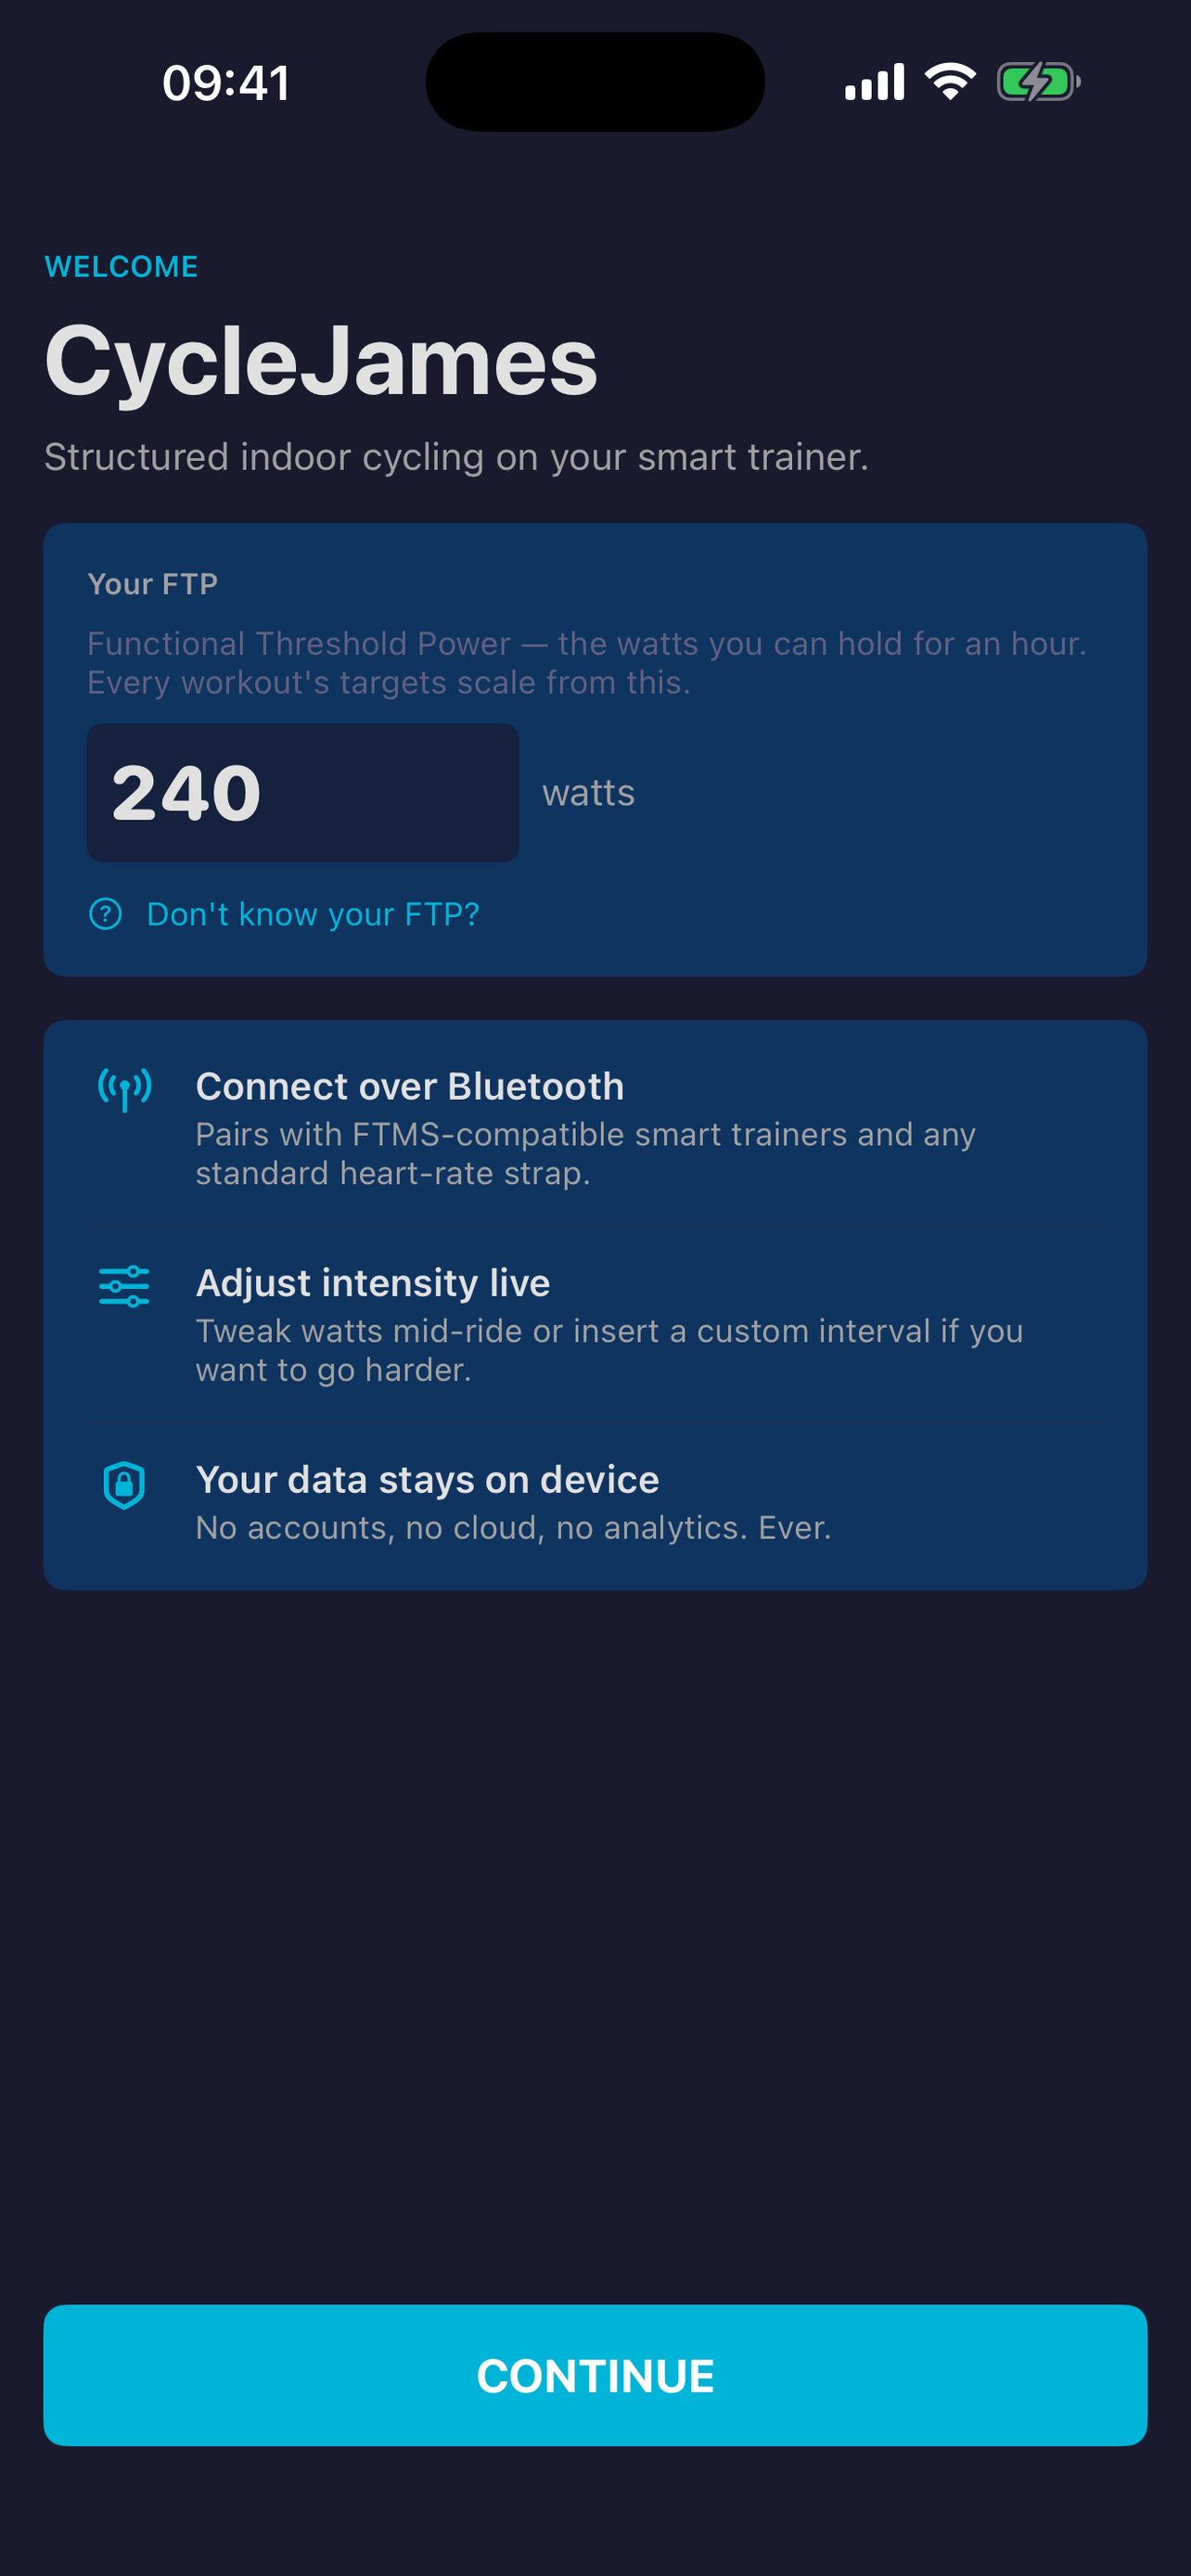
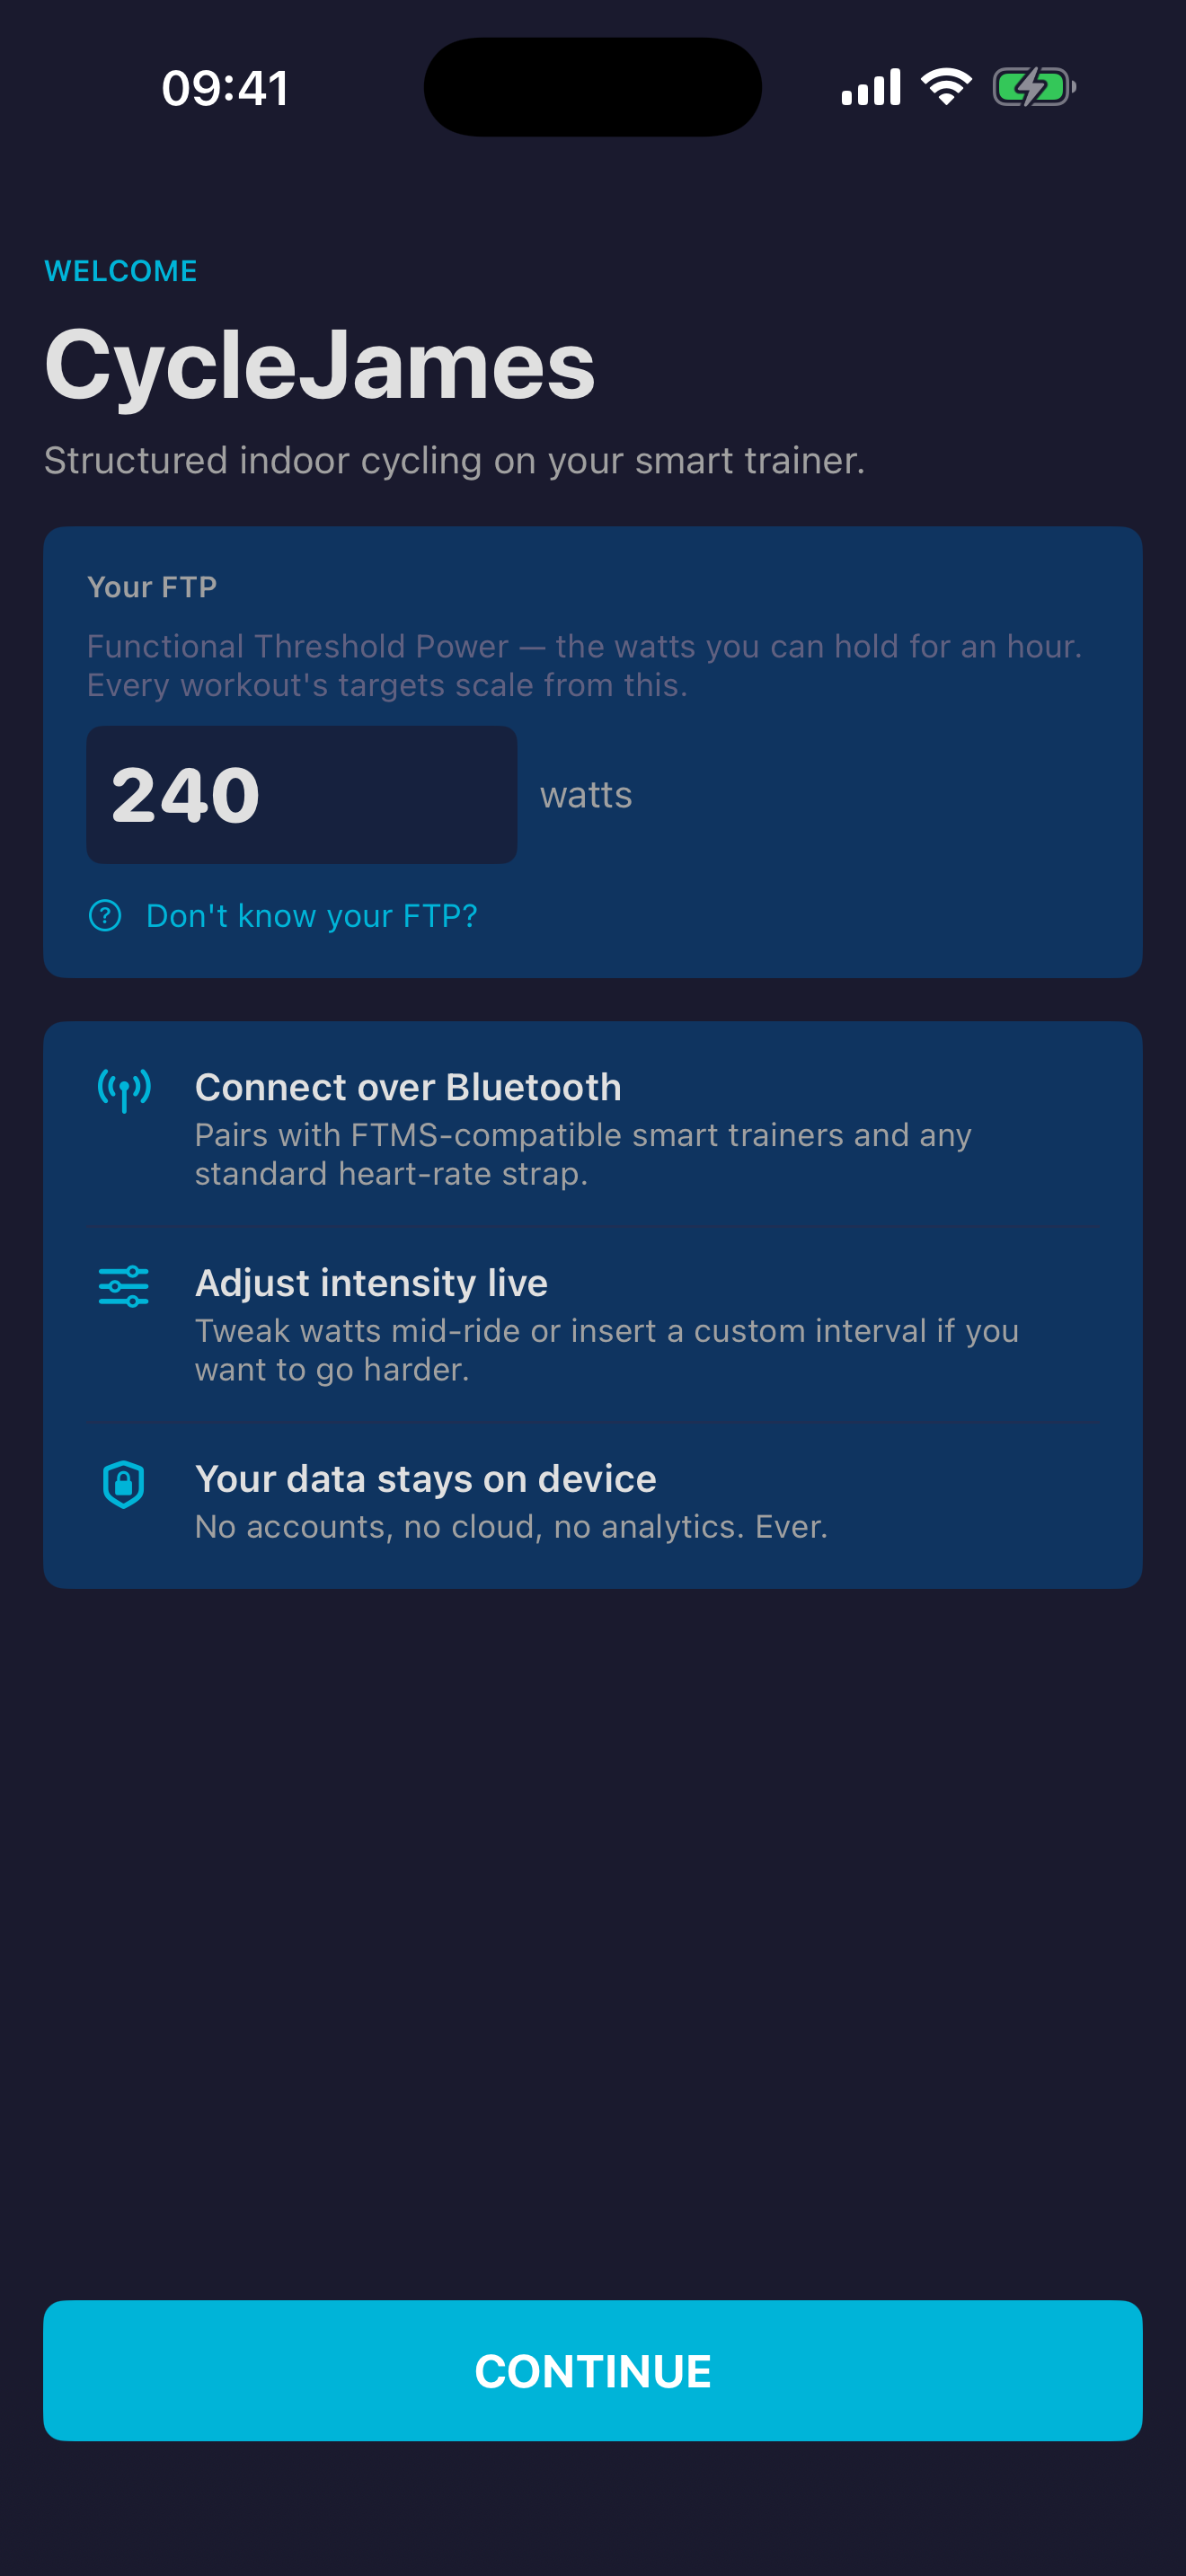
Bump to 1.1 (build 3) + refresh App Store screenshots
- MARKETING_VERSION 1.1.0, CURRENT_PROJECT_VERSION 3 (1.0 build 2 was
  approved but unreleased; 1.1 supersedes it).
- Replace the five 6.9" screenshots so they reflect the new UI:
  brand wordmark + zone bars, Favourites tab, scheduling on the
  Calendar, gear-in-nav for Settings. Drop the old Settings shot
  (no longer a tab) and History shot (less compelling than Calendar
  or Favourites for the new release).
- ScreenshotSeeder.swift seeds three favourites and three scheduled
  rides on launch when -screenshotSeed is passed; CalendarView gets
  -screenshotSelectDay <day> so the capture script can land on a day
  with a scheduled card visible. Both are no-ops in normal launches.

diff --git a/CycleJames/Library/ScreenshotSeeder.swift b/CycleJames/Library/ScreenshotSeeder.swift
@@ -1,0 +1,54 @@
+import Foundation
+import SwiftData
+
+/// Debug-only helper invoked from the app entry point when the launch arg
+/// `-screenshotSeed` is present. Seeds favourites + a few scheduled rides
+/// so App Store screenshots show populated state. No-op in normal launches.
+enum ScreenshotSeeder {
+    static var isRequested: Bool {
+        ProcessInfo.processInfo.arguments.contains("-screenshotSeed")
+    }
+
+    static func seed(modelContext: ModelContext) {
+        seedFavourites()
+        seedScheduledRides(modelContext: modelContext)
+    }
+
+    private static func seedFavourites() {
+        let ids = ["kitchen-sink-60", "sweet-spot-60", "vo2max-intervals"]
+        if let data = try? JSONEncoder().encode(ids) {
+            UserDefaults.standard.set(data, forKey: SettingsKeys.favouriteWorkoutIDs)
+        }
+    }
+
+    private static func seedScheduledRides(modelContext: ModelContext) {
+        // Wipe any existing scheduled rides for a clean state.
+        let descriptor = FetchDescriptor<ScheduledRideModel>()
+        if let existing = try? modelContext.fetch(descriptor) {
+            for s in existing { modelContext.delete(s) }
+        }
+
+        let g = Calendar(identifier: .gregorian)
+        let today = g.startOfDay(for: Date())
+
+        // Pick three future days within the displayed month so the grid
+        // shows multiple warm-ring dots.
+        let plan: [(daysOut: Int, id: String, name: String, category: String)] = [
+            (1, "kitchen-sink-60", "Kitchen Sink", "Sweet Spot"),
+            (3, "vo2max-intervals", "VO2max Intervals", "VO2max"),
+            (5, "endurance-60", "Endurance 60", "Endurance"),
+        ]
+
+        for p in plan {
+            guard let date = g.date(byAdding: .day, value: p.daysOut, to: today) else { continue }
+            let model = ScheduledRideModel(
+                workoutId: p.id,
+                workoutName: p.name,
+                category: p.category,
+                date: date
+            )
+            modelContext.insert(model)
+        }
+        try? modelContext.save()
+    }
+}

diff --git a/CycleJames/Views/Calendar/CalendarView.swift b/CycleJames/Views/Calendar/CalendarView.swift
@@ -103,6 +103,18 @@ struct CalendarView: View {
         return date(forDay: day) < today
     }
 
+    /// Honour `-screenshotSelectDay <day>` launch arg so the screenshot
+    /// capture script can land on a selected day without needing a tap.
+    /// No-op in production.
+    private func applyScreenshotSelection() {
+        guard selectedDay == nil else { return }
+        let args = ProcessInfo.processInfo.arguments
+        guard let idx = args.firstIndex(of: "-screenshotSelectDay"), idx + 1 < args.count else { return }
+        if let day = Int(args[idx + 1]) {
+            selectedDay = day
+        }
+    }
+
     var body: some View {
         NavigationStack(path: $navigationPath) {
             ScrollView {
@@ -149,6 +161,7 @@ struct CalendarView: View {
                     reschedule(target, to: newDate)
                 }
             }
+            .onAppear { applyScreenshotSelection() }
         }
     }
 

diff --git a/CycleJames/CycleJamesApp.swift b/CycleJames/CycleJamesApp.swift
@@ -23,6 +23,11 @@ struct CycleJamesApp: App {
                 .preferredColorScheme(.dark)
                 .tint(CJColors.accent)
                 .environmentObject(favourites)
+                .onAppear {
+                    if ScreenshotSeeder.isRequested {
+                        ScreenshotSeeder.seed(modelContext: modelContainer.mainContext)
+                    }
+                }
         }
         .modelContainer(modelContainer)
     }

diff --git a/screenshots/README.md b/screenshots/README.md
@@ -6,10 +6,10 @@ iPhone 6.9" Display. Drag in upload order:
 | Order | File | Story |
 |---|---|---|
 | 1 | `01_onboarding.png` | First-launch FTP entry — sets the hook. |
-| 2 | `02_workout_detail.png` | Kitchen Sink workout chart with intervals list + Start button. The hero shot. |
-| 3 | `03_workouts.png` | Built-in library + filter pills. |
-| 4 | `04_settings.png` | FTP-driven personalization, on-device storage. |
-| 5 | `05_history.png` | Tracking surface (empty state). |
+| 2 | `02_workouts.png` | Workout library with brand wordmark + zone bars, hearts on cards, and the new tab bar including Favourites. |
+| 3 | `03_workout_detail.png` | Kitchen Sink chart with all five training zones + the +/- adjuster + Schedule-for-later button. Hero shot. |
+| 4 | `04_calendar.png` | Calendar with three scheduled rides on the grid, today highlighted, day-detail card showing Kitchen Sink scheduled for May 10. |
+| 5 | `05_favourites.png` | Favourites tab with three heart-curated workouts. |
 
 ## How they were captured
 